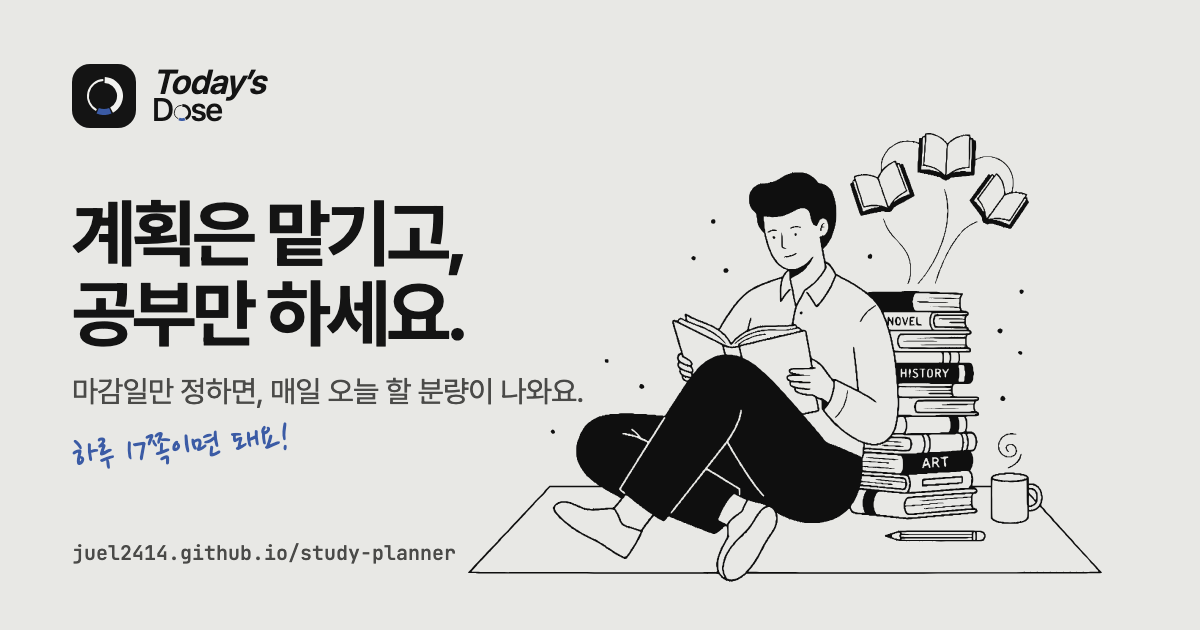
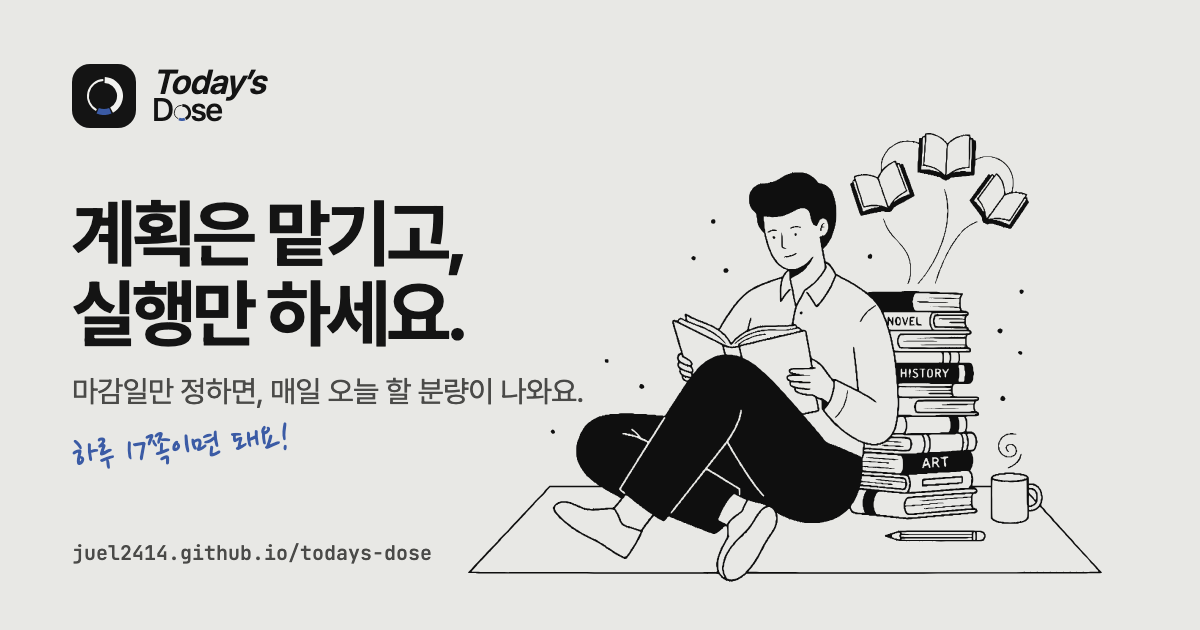
새 주소(todays-dose)로 검색 정보·sitemap 변경, 첫 문구 '계획은 맡기고, 실행만 하세요'

Changed region(s): [[0.0617, 0.4222, 0.185, 0.573], [0.2467, 0.8444, 0.37, 0.9048]]

diff --git a/index.html b/index.html
@@ -5,26 +5,26 @@
   <meta name="viewport" content="width=device-width, initial-scale=1">
   <title>오늘분량 · Today's Dose — 마감일만 정하면 오늘 할 분량을 알려 주는 학습 계획 앱</title>
   <meta name="description" content="책·인강·성경 통독·문제집의 마감일만 정하면 쉬는 날을 빼고 매일 오늘 할 분량을 알려 주는 무료 학습 계획 앱. 목차 사진 한 장으로 챕터를 채우고, 밀리면 남은 분량을 다시 나눠 줘요.">
-  <link rel="canonical" href="https://juel2414.github.io/study-planner/">
+  <link rel="canonical" href="https://juel2414.github.io/todays-dose/">
   <!-- 검색엔진 사이트 확인 코드 (Google Search Console · 네이버 서치어드바이저에서 받은 값으로 채운다)
   <meta name="google-site-verification" content="">
   <meta name="naver-site-verification" content="">
   -->
   <meta property="og:type" content="website">
   <meta property="og:site_name" content="오늘분량 · Today's Dose">
-  <meta property="og:url" content="https://juel2414.github.io/study-planner/">
+  <meta property="og:url" content="https://juel2414.github.io/todays-dose/">
   <meta property="og:title" content="오늘분량 · 마감일만 정하면 오늘 할 분량이 나와요">
   <meta property="og:description" content="책·인강·성경 통독·문제집의 마감일만 정하면 쉬는 날을 빼고 매일 오늘 할 분량을 알려 주는 무료 학습 계획 앱. 목차 사진 한 장으로 챕터를 채우고, 밀리면 남은 분량을 다시 나눠 줘요.">
-  <meta property="og:image" content="https://juel2414.github.io/study-planner/landing/og-image.png">
+  <meta property="og:image" content="https://juel2414.github.io/todays-dose/landing/og-image.png">
   <meta property="og:image:width" content="1200">
   <meta property="og:image:height" content="630">
   <meta property="og:locale" content="ko_KR">
   <meta name="twitter:card" content="summary_large_image">
   <meta name="twitter:title" content="오늘분량 · 마감일만 정하면 오늘 할 분량이 나와요">
   <meta name="twitter:description" content="책·인강·성경 통독·문제집의 마감일만 정하면 쉬는 날을 빼고 매일 오늘 할 분량을 알려 주는 무료 학습 계획 앱. 목차 사진 한 장으로 챕터를 채우고, 밀리면 남은 분량을 다시 나눠 줘요.">
-  <meta name="twitter:image" content="https://juel2414.github.io/study-planner/landing/og-image.png">
+  <meta name="twitter:image" content="https://juel2414.github.io/todays-dose/landing/og-image.png">
   <script type="application/ld+json">
-  {"@context":"https://schema.org","@type":"WebApplication","name":"오늘분량 (Today's Dose)","url":"https://juel2414.github.io/study-planner/","applicationCategory":"EducationalApplication","operatingSystem":"Web","inLanguage":["ko","en"],"description":"책·인강·성경 통독·문제집의 마감일만 정하면 쉬는 날을 빼고 매일 오늘 할 분량을 알려 주는 무료 학습 계획 앱. 목차 사진 한 장으로 챕터를 채우고, 밀리면 남은 분량을 다시 나눠 줘요.","offers":{"@type":"Offer","price":"0","priceCurrency":"KRW"}}
+  {"@context":"https://schema.org","@type":"WebApplication","name":"오늘분량 (Today's Dose)","url":"https://juel2414.github.io/todays-dose/","applicationCategory":"EducationalApplication","operatingSystem":"Web","inLanguage":["ko","en"],"description":"책·인강·성경 통독·문제집의 마감일만 정하면 쉬는 날을 빼고 매일 오늘 할 분량을 알려 주는 무료 학습 계획 앱. 목차 사진 한 장으로 챕터를 채우고, 밀리면 남은 분량을 다시 나눠 줘요.","offers":{"@type":"Offer","price":"0","priceCurrency":"KRW"}}
   </script>
   <!-- 자바스크립트가 켜져 있으면 아래 정적 소개문은 숨기고 앱이 그린다 (검색엔진·JS 꺼진 환경용) -->
   <script>document.documentElement.classList.add('js');</script>
@@ -35,14 +35,14 @@
   <link rel="icon" href="logo/png/favicon-16.png?v=2" sizes="16x16" type="image/png">
   <link rel="apple-touch-icon" href="logo/png/apple-touch-icon.png?v=2">
   <link rel="manifest" href="manifest.webmanifest">
-  <link rel="stylesheet" href="landing.css?v=20261002155343">
-  <link rel="stylesheet" href="style.css?v=20261002155343">
+  <link rel="stylesheet" href="landing.css?v=20261002155843">
+  <link rel="stylesheet" href="style.css?v=20261002155843">
 </head>
 <body>
   <header id="topbar" class="topbar" hidden></header>
   <main id="app">
     <article class="seo-static">
-      <h1>오늘분량 (Today's Dose) — 계획은 맡기고, 공부만 하세요</h1>
+      <h1>오늘분량 (Today's Dose) — 계획은 맡기고, 실행만 하세요</h1>
       <p>마감일만 정하면, 매일 오늘 할 분량이 나와요. 책·인강·성경 통독·문제집처럼 끝내고 싶은 것을 목표로 만들면, 쉬는 날을 빼고 하루 분량을 고르게 나눠 날마다 알려 주는 무료 학습 계획 앱입니다.</p>
       <h2>공부보다 계획 짜는 데 더 오래 걸린 적 있나요?</h2>
       <p>목차를 펼쳐 전체 페이지를 세고, 마감일까지 남은 날을 세고, 쉬는 날을 빼고 하루 분량을 나누고, 달력에 옮겨 적는 일. 오늘분량은 목표 만들기 → 마감일 → 끝, 세 단계로 줄였어요.</p>
@@ -71,8 +71,8 @@
     </article>
   </main>
   <script src="https://cdn.jsdelivr.net/npm/@supabase/supabase-js@2.57.4/dist/umd/supabase.min.js"></script>
-  <script src="landing.js?v=20261002155343"></script>
-  <script src="help.js?v=20261002155343"></script>
-  <script src="app.js?v=20261002155343"></script>
+  <script src="landing.js?v=20261002155843"></script>
+  <script src="help.js?v=20261002155843"></script>
+  <script src="app.js?v=20261002155843"></script>
 </body>
 </html>

diff --git a/landing.js b/landing.js
@@ -8,7 +8,7 @@ const LANDING_TEXT = {
   ko: {
     nav: ['소개', '기능', '이런 분들', '자주 묻는 질문'],
     login: '로그인',
-    heroTitle: '계획은 맡기고, 공부만 하세요.',
+    heroTitle: '계획은 맡기고, 실행만 하세요.',
     heroSub: '마감일만 정하면, 매일 오늘 할 분량이 나와요.',
     cta: 'Google 계정으로 시작하기',
     illusAlt: '책 더미에 기대어 책을 읽는 사람 손그림',
@@ -63,7 +63,7 @@ const LANDING_TEXT = {
   en: {
     nav: ['About', 'Features', 'Who', 'FAQ'],
     login: 'Log in',
-    heroTitle: 'Leave the planning to us. Just study.',
+    heroTitle: 'Leave the planning to us. Just get it done.',
     heroSub: 'Set a deadline. Every day, you get today’s amount.',
     cta: 'Continue with Google',
     illusAlt: 'Hand-drawn person reading against a stack of books',
